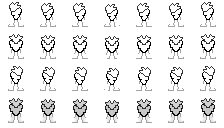
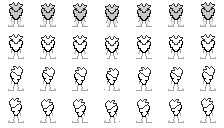
fixed enemy texture

diff --git a/2DGame/src/_Scene.cpp b/2DGame/src/_Scene.cpp
@@ -104,7 +104,7 @@ void _Scene::initGL() {
     settings->init(width, height, "images/tex2.jpg");
 
     theSound->playSound("sounds/untitled.mp3");
-    enemySprite->spriteInit("images/knightAnimations3.png", 6, 12);
+    enemySprite->spriteInit("images/characterRotate.png", 7,4);
     enemySprite->pos.x = 3.0f;
     enemySprite->pos.y = 2.0f;
 
@@ -280,9 +280,11 @@ void _Scene::drawScene() {
         glEnable(GL_TEXTURE_2D);
         glEnable(GL_BLEND);
         glBlendFunc(GL_SRC_ALPHA, GL_ONE_MINUS_SRC_ALPHA);
+        glDepthMask(GL_FALSE);
 
         mySprite->drawSprite(mySprite->pos.x, mySprite->pos.y, 0);
         enemySprite->drawSprite(enemySprite->pos.x, enemySprite->pos.y, 0);
+
 
         int tickLimit = 100;
 
@@ -302,34 +304,39 @@ void _Scene::drawScene() {
             myTime->reset();
         }
 
+        glDepthMask(GL_TRUE);
         glDisable(GL_BLEND);
         glDisable(GL_TEXTURE_2D);
     glPopMatrix();
     }
 
 
-    // ---- Draw Game Text ----
     if (currentScene == GAME_SCENE) {
-        // ---- 2D TORCH LIGHTING ----
+
+        // ---- Torch Lighting Pipeline ----
         glDisable(GL_DEPTH_TEST);
         glEnable(GL_BLEND);
 
 
-        float r = torchColors[currentColor][0] * (1.0f - flickerTimer)
-            + torchColors[nextColor][0] * flickerTimer;
+        float r = torchColors[currentColor][0] * (1.0f - flickerTimer) + torchColors[nextColor][0] * flickerTimer;
+        float g = torchColors[currentColor][1] * (1.0f - flickerTimer) + torchColors[nextColor][1] * flickerTimer;
+        float b = torchColors[currentColor][2] * (1.0f - flickerTimer) + torchColors[nextColor][2] * flickerTimer;
 
-        float g = torchColors[currentColor][1] * (1.0f - flickerTimer)
-                + torchColors[nextColor][1] * flickerTimer;
+        float flickerSpeed = 5.0f;
 
-        float b = torchColors[currentColor][2] * (1.0f - flickerTimer)
-                + torchColors[nextColor][2] * flickerTimer;
+        static float flickerTime = 0.0f;
+        flickerTime += myTime->deltaTime * flickerSpeed;
 
-        float radiusFlicker = 1.7f + (rand() % 10) / 100.0f;
-        float alphaFlicker = 0.55f + (rand() % 10) / 200.0f;
+        float flicker =
+            sin(flickerTime * 2.0f) * 0.10f +
+            sin(flickerTime * 5.0f) * 0.05f;
+
+        float radiusFlicker = 1.3f + flicker;
+        float alphaFlicker  = 0.5f + flicker * 0.4f;
 
 
 
-        //Darken entire screen
+        // ---- Darken Screen ----
         glBlendFunc(GL_SRC_ALPHA, GL_ONE_MINUS_SRC_ALPHA);
 
         glDisable(GL_TEXTURE_2D);
@@ -343,7 +350,7 @@ void _Scene::drawScene() {
         glEnd();
 
 
-        //Add light back using additive blending
+        //---- light circle ----
         glBlendFunc(GL_SRC_ALPHA, GL_ONE);
 
         float radius = 2.0f;
@@ -351,26 +358,20 @@ void _Scene::drawScene() {
         float cy = 0.9f;
 
         glBegin(GL_TRIANGLE_FAN);
-
-        //bright center
-        //glColor4f(1.0f, 1.0f, 1.0f, 0.4f);
         glColor4f(r, g, b, alphaFlicker);
         glVertex3f(cx, cy, 0);
 
-        //fade outward
         for(int i = 0; i <= 360; i++)
         {
             float angle = i * 3.14159f / 180.0f;
             float x = cx + cos(angle) * radiusFlicker;
             float y = cy + sin(angle) * radiusFlicker;
 
-            //glColor4f(0.0f, 0.0f, 0.0f, 0.0f);
             glColor4f(r, g * 0.5f, b * 0.3f, 0.0f);
             glVertex3f(x, y, 0);
         }
 
         glEnd();
-
         glDisable(GL_BLEND);
         glEnable(GL_DEPTH_TEST);
 

diff --git a/2DGame/include/_Scene.h b/2DGame/include/_Scene.h
@@ -69,8 +69,8 @@ class _Scene
         // Torch colors
         float torchColors[3][3] =
         {
-            {1.0f, 0.8f, 0.4f},   // deep orange
-            {1.0f, 0.9f, 0.5f}   // yellow-orange
+            {1.0f, 0.8f, 0.4f},
+            {1.0f, 0.9f, 0.5f}
         };
 
         float flickerTimer = 0.0f;
